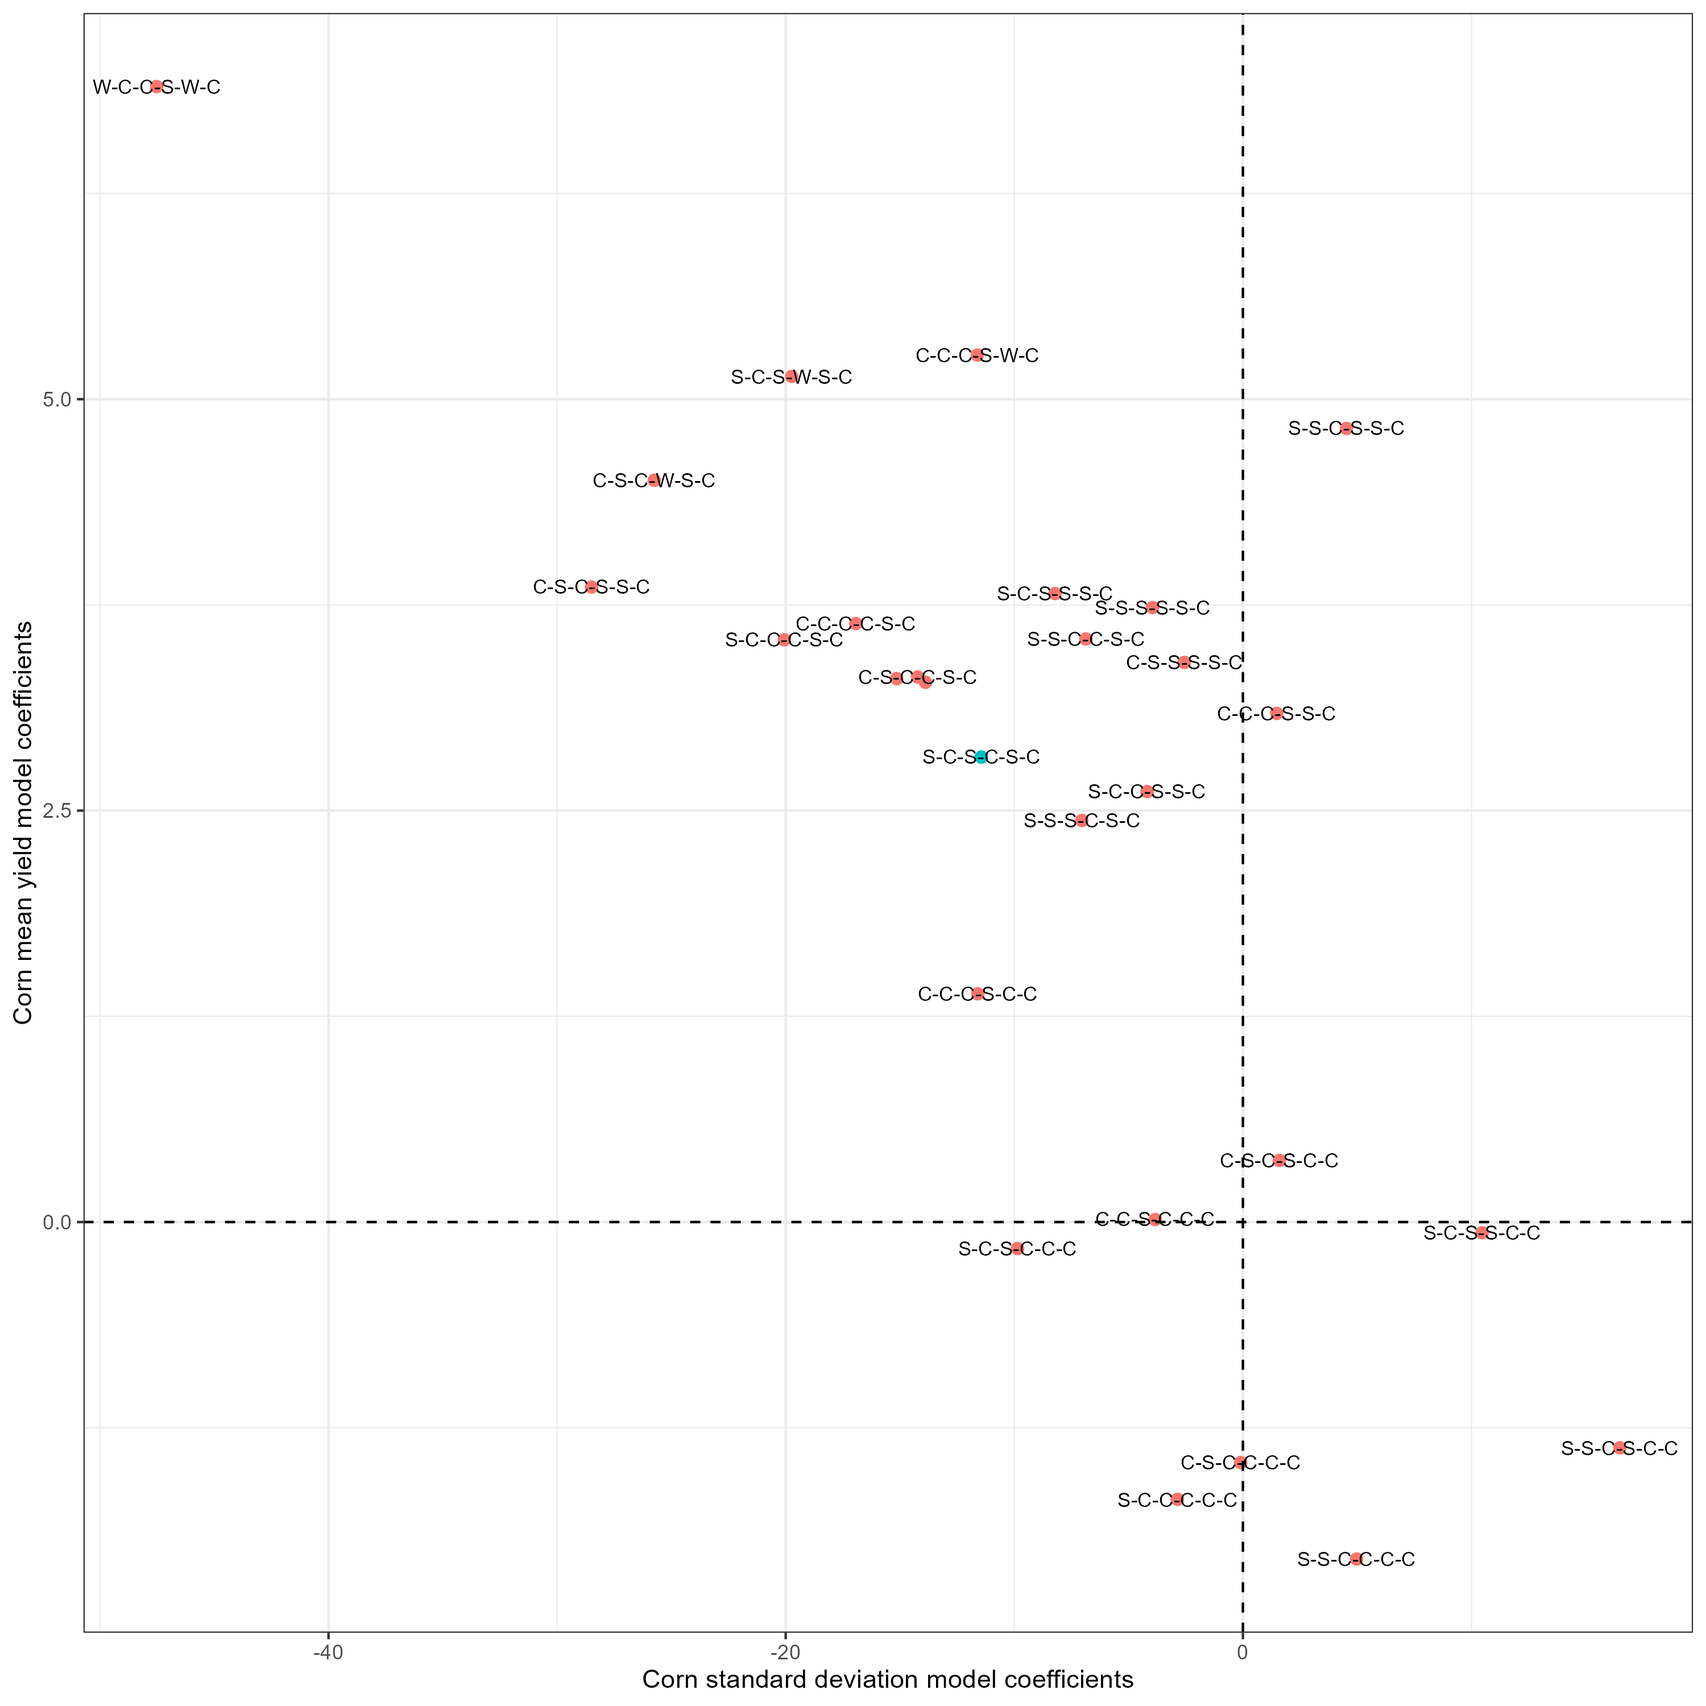
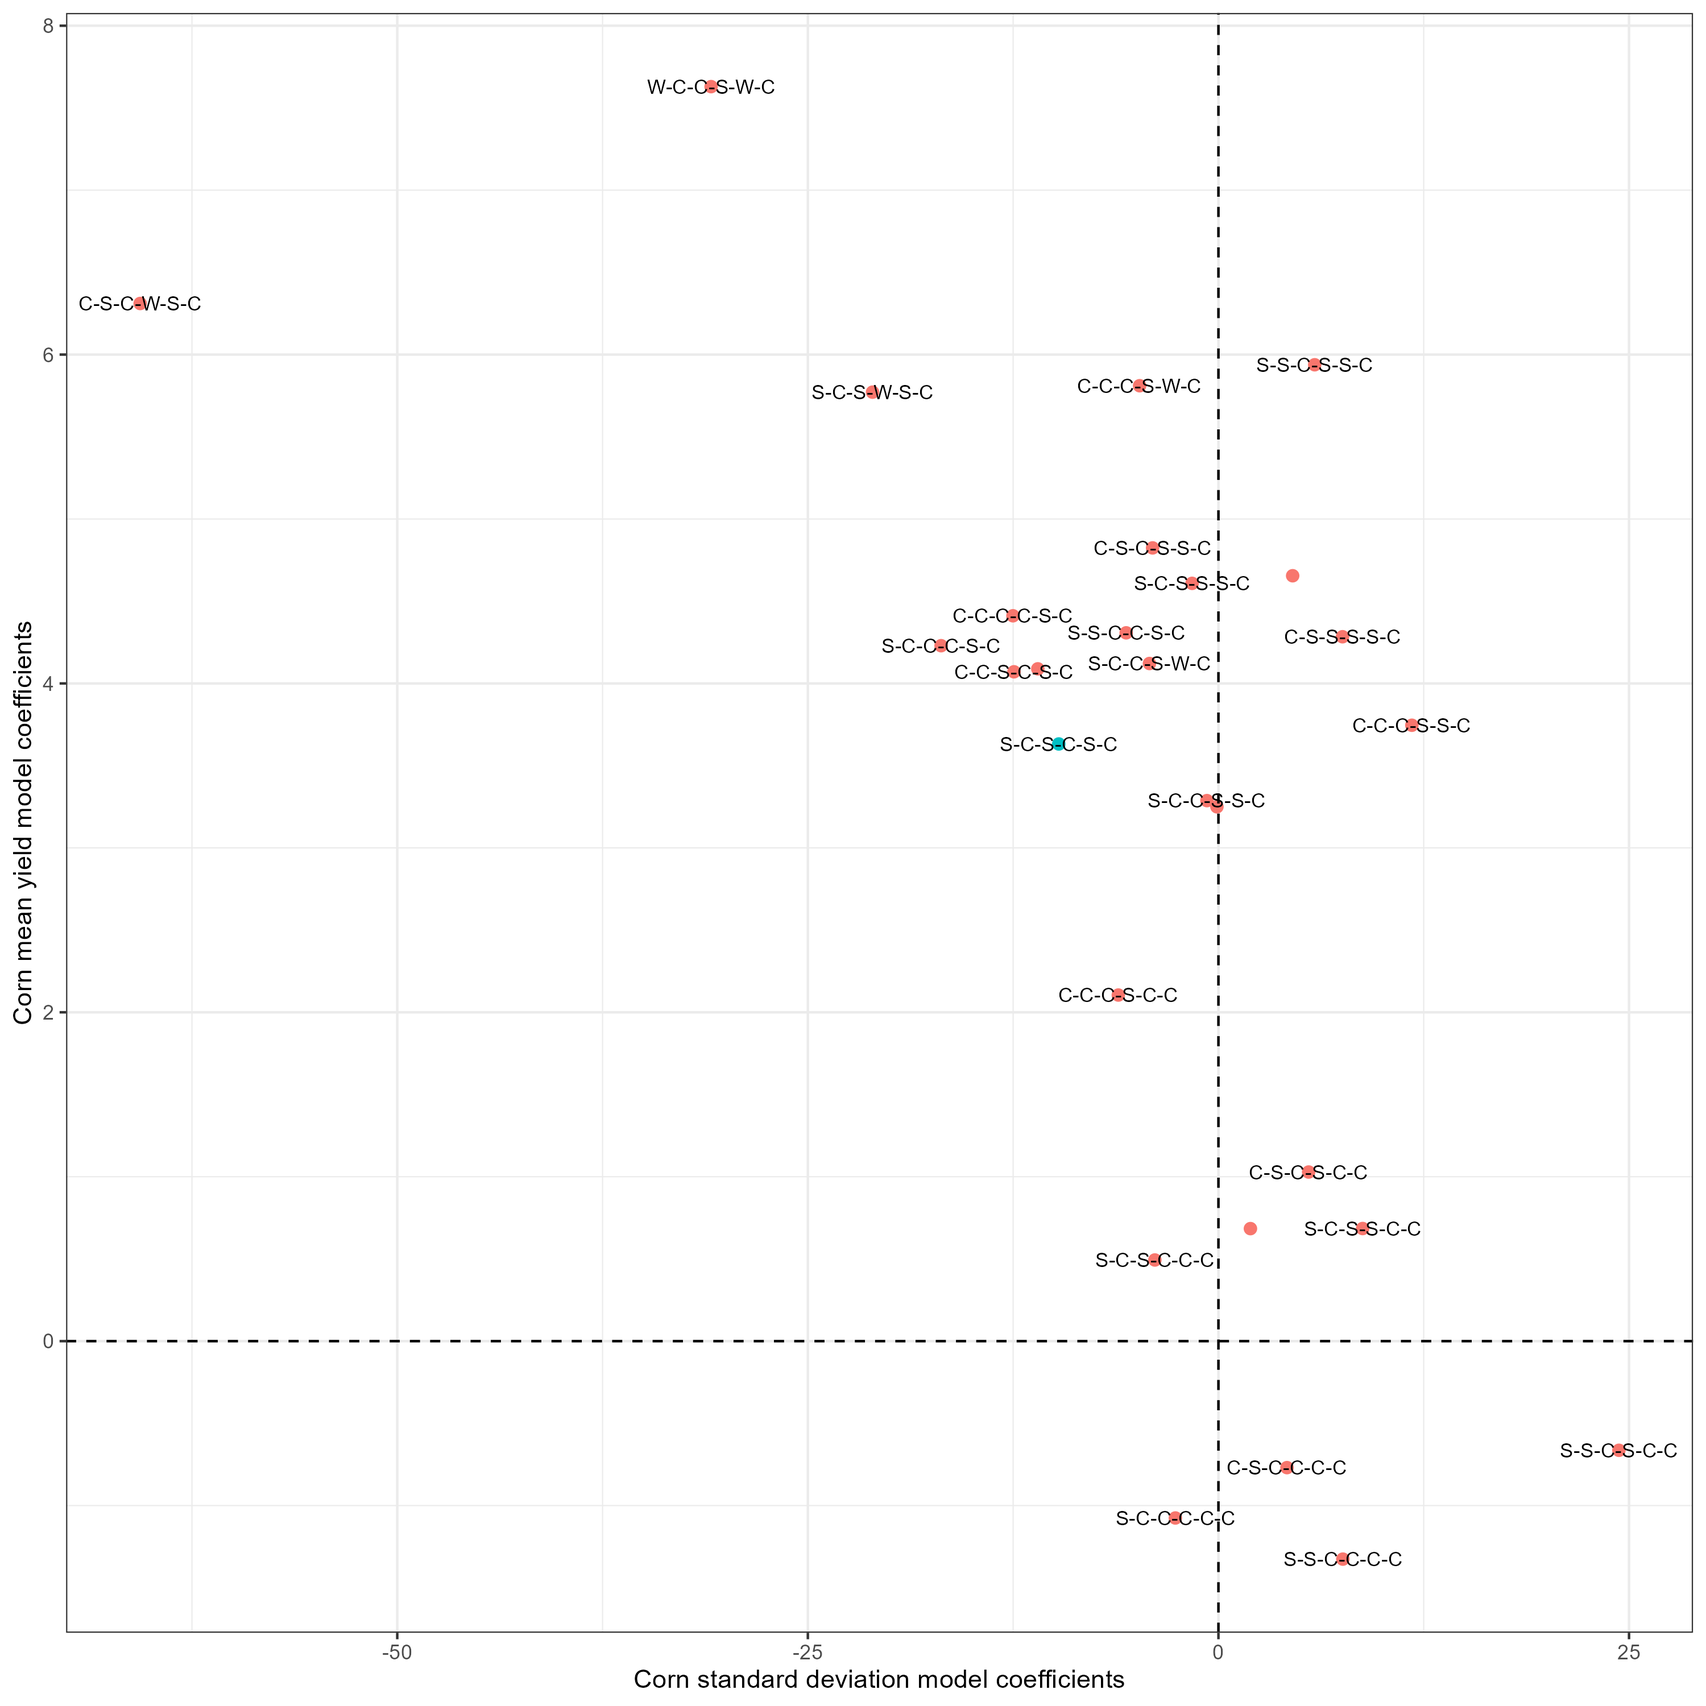
updated tables

diff --git a/tables/corn_jp_mean.tex b/tables/corn_jp_mean.tex
@@ -6,51 +6,51 @@
    \begin{tabular}{lcccc}
       \toprule
        & \multicolumn{4}{c}{corn\_yield}\\
-                                      & (1)                    & (2)                    & (3)                    & (4)\\  
+                                      & (1)                     & (2)                    & (3)                    & (4)\\  
       \midrule 
-      C-C-C-C-S-C                     & 3.636$^{***}$ (0.7219) [p=0.003] &                        &                        &   \\   
-      C-C-C-S-C-C                     & 1.386$^{***}$ (0.4177) [p=0.010] &                        &                        &   \\   
-      C-C-C-S-S-C                     & 3.092$^{***}$ (0.9316) [p=0.010] &                        &                        &   \\   
-      C-C-C-S-W-C                     & 5.269$^{***}$ (1.176) [p=0.003]  &                        &                        &   \\   
-      C-C-S-C-C-C                     & 0.0175 (0.4336) [p=0.968]        &                        &                        &   \\   
-      C-C-S-C-S-C                     & 3.304$^{***}$ (0.8452) [p=0.005] &                        &                        &   \\   
-      C-S-C-C-C-C                     & -1.459$^{**}$ (0.5836) [p=0.036] &                        &                        &   \\   
-      C-S-C-C-S-C                     & 3.311$^{***}$ (0.8099) [p=0.004] &                        &                        &   \\   
-      C-S-C-S-C-C                     & 0.3743 (0.5836) [p=0.595]        &                        &                        &   \\   
-      C-S-C-S-S-C                     & 3.860$^{**}$ (1.581) [p=0.036]   &                        &                        &   \\   
-      C-S-C-W-S-C                     & 4.506$^{**}$ (1.640) [p=0.026]   &                        &                        &   \\   
-      C-S-S-S-S-C                     & 3.403$^{***}$ (0.8827) [p=0.005] &                        &                        &   \\   
-      S-C-C-C-C-C                     & -1.687$^{**}$ (0.6997) [p=0.037] &                        &                        &   \\   
-      S-C-C-C-S-C                     & 3.539$^{***}$ (0.8088) [p=0.003] &                        &                        &   \\   
-      S-C-C-S-S-C                     & 2.616$^{**}$ (0.9952) [p=0.031]  &                        &                        &   \\   
-      S-C-C-S-W-C                     & 3.282$^{***}$ (1.053) [p=0.013]  &                        &                        &   \\   
-      S-C-S-C-C-C                     & -0.1600 (1.055) [p=0.949]        &                        &                        &   \\   
-      S-C-S-C-S-C                     & 2.827$^{***}$ (0.8296) [p=0.010] &                        &                        &   \\   
-      S-C-S-S-C-C                     & -0.0649 (0.7092) [p=0.963]       &                        &                        &   \\   
-      S-C-S-S-S-C                     & 3.821$^{***}$ (0.9932) [p=0.005] &                        &                        &   \\   
-      S-C-S-W-S-C                     & 5.138$^{***}$ (1.193) [p=0.003]  &                        &                        &   \\   
-      S-S-C-C-C-C                     & -2.048$^{**}$ (0.8074) [p=0.035] &                        &                        &   \\   
-      S-S-C-C-S-C                     & 3.545$^{***}$ (1.070) [p=0.010]  &                        &                        &   \\   
-      S-S-C-S-C-C                     & -1.373 (0.9102) [p=0.179]        &                        &                        &   \\   
-      S-S-C-S-S-C                     & 4.824$^{***}$ (1.109) [p=0.003]  &                        &                        &   \\   
-      S-S-S-C-S-C                     & 2.442$^{**}$ (0.9953) [p=0.036]  &                        &                        &   \\   
-      S-S-S-S-S-C                     & 3.733$^{***}$ (0.8960) [p=0.004] &                        &                        &   \\   
-      W-C-C-S-W-C                     & 6.899$^{***}$ (1.595) [p=0.003]  &                        &                        &   \\   
-      soy\_lag1                       &                        & 3.316$^{***}$ (0.5845) & 3.986$^{***}$ (0.6423) &   \\   
-      soy\_lag2                       &                        &                        & 1.384$^{***}$ (0.2112) &   \\   
-      rot\_index                      &                        &                        &                        & 0.4910$^{***}$ (0.1482)\\   
+      C-C-C-C-S-C                     & 4.411$^{***}$ (0.6499) [p<0.001]  &                        &                        &   \\   
+      C-C-C-S-C-C                     & 2.105$^{***}$ (0.3888) [p<0.001]  &                        &                        &   \\   
+      C-C-C-S-S-C                     & 3.746$^{***}$ (0.9712) [p=0.003]  &                        &                        &   \\   
+      C-C-C-S-W-C                     & 5.810$^{***}$ (1.107) [p<0.001]   &                        &                        &   \\   
+      C-C-S-C-C-C                     & 0.6844$^{*}$ (0.3756) [p=0.101]   &                        &                        &   \\   
+      C-C-S-C-S-C                     & 4.071$^{***}$ (0.8428) [p<0.001]  &                        &                        &   \\   
+      C-S-C-C-C-C                     & -0.7695$^{**}$ (0.3432) [p=0.051] &                        &                        &   \\   
+      C-S-C-C-S-C                     & 4.089$^{***}$ (0.8445) [p<0.001]  &                        &                        &   \\   
+      C-S-C-S-C-C                     & 1.028$^{**}$ (0.4680) [p=0.053]   &                        &                        &   \\   
+      C-S-C-S-S-C                     & 4.824$^{***}$ (1.003) [p<0.001]   &                        &                        &   \\   
+      C-S-C-W-S-C                     & 6.311$^{***}$ (1.502) [p=0.002]   &                        &                        &   \\   
+      C-S-S-S-S-C                     & 4.284$^{***}$ (1.015) [p=0.002]   &                        &                        &   \\   
+      S-C-C-C-C-C                     & -1.076$^{***}$ (0.3289) [p=0.008] &                        &                        &   \\   
+      S-C-C-C-S-C                     & 4.230$^{***}$ (0.7991) [p<0.001]  &                        &                        &   \\   
+      S-C-C-S-S-C                     & 3.287$^{***}$ (0.9953) [p=0.008]  &                        &                        &   \\   
+      S-C-C-S-W-C                     & 4.121$^{***}$ (1.072) [p=0.003]   &                        &                        &   \\   
+      S-C-S-C-C-C                     & 0.4936 (0.3959) [p=0.251]         &                        &                        &   \\   
+      S-C-S-C-S-C                     & 3.632$^{***}$ (0.8136) [p=0.001]  &                        &                        &   \\   
+      S-C-S-S-C-C                     & 0.6850 (0.6298) [p=0.306]         &                        &                        &   \\   
+      S-C-S-S-S-C                     & 4.609$^{***}$ (1.001) [p<0.001]   &                        &                        &   \\   
+      S-C-S-W-S-C                     & 5.772$^{***}$ (1.136) [p<0.001]   &                        &                        &   \\   
+      S-S-C-C-C-C                     & -1.326$^{**}$ (0.5710) [p=0.046]  &                        &                        &   \\   
+      S-S-C-C-S-C                     & 4.308$^{***}$ (1.105) [p=0.003]   &                        &                        &   \\   
+      S-S-C-S-C-C                     & -0.6638 (0.7758) [p=0.407]        &                        &                        &   \\   
+      S-S-C-S-S-C                     & 5.938$^{***}$ (1.204) [p<0.001]   &                        &                        &   \\   
+      S-S-S-C-S-C                     & 3.250$^{***}$ (0.9996) [p=0.008]  &                        &                        &   \\   
+      S-S-S-S-S-C                     & 4.655$^{***}$ (1.003) [p<0.001]   &                        &                        &   \\   
+      W-C-C-S-W-C                     & 7.630$^{***}$ (1.566) [p<0.001]   &                        &                        &   \\   
+      soy\_lag1                       &                         & 3.494$^{***}$ (0.5672) & 4.052$^{***}$ (0.6026) &   \\   
+      soy\_lag2                       &                         &                        & 1.369$^{***}$ (0.2386) &   \\   
+      rot\_index                      &                         &                        &                        & 0.6388$^{***}$ (0.1510)\\   
        \\
-      Observations                    & 1,507,098              & 1,507,098              & 1,507,098              & 1,507,098\\  
-      R$^2$                           & 0.83980                & 0.83955                & 0.83966                & 0.83871\\  
-      Within R$^2$                    & 0.14882                & 0.14747                & 0.14805                & 0.14300\\  
+      Observations                    & 1,796,806               & 1,796,806              & 1,796,806              & 1,796,806\\  
+      R$^2$                           & 0.84354                 & 0.84332                & 0.84343                & 0.84256\\  
+      Within R$^2$                    & 0.15452                 & 0.15332                & 0.15391                & 0.14918\\  
        \\
-      tile\_field\_ID fixed effects   & $\checkmark$           & $\checkmark$           & $\checkmark$           & $\checkmark$\\   
-      year fixed effects              & $\checkmark$           & $\checkmark$           & $\checkmark$           & $\checkmark$\\   
+      tile\_field\_ID fixed effects   & $\checkmark$            & $\checkmark$           & $\checkmark$           & $\checkmark$\\   
+      year fixed effects              & $\checkmark$            & $\checkmark$           & $\checkmark$           & $\checkmark$\\   
       \bottomrule
    \end{tabular}
    
    \par \raggedright 
-   Benjamini-Hochberg FDR correction across 28 rotation-sequence coefficients: 24 significant at 5\% (unadjusted); 24 significant at 5\% FDR.
+   Benjamini-Hochberg FDR correction across 28 rotation-sequence coefficients: 25 significant at 5\% (unadjusted); 25 significant at 5\% FDR.
 \end{table}
 
 

diff --git a/tables/corn_jp_var.tex b/tables/corn_jp_var.tex
@@ -8,38 +8,38 @@
                                       & resid\_sq\\   
                                       & (1)\\  
       \midrule 
-      C-C-C-C-S-C                     & -16.93$^{***}$ (5.001)\\   
-      C-C-C-S-C-C                     & -11.60 (8.125)\\   
-      C-C-C-S-S-C                     & 1.481 (9.804)\\   
-      C-C-C-S-W-C                     & -11.61 (19.32)\\   
-      C-C-S-C-C-C                     & -3.841 (5.982)\\   
-      C-C-S-C-S-C                     & -15.14$^{**}$ (5.647)\\   
-      C-S-C-C-C-C                     & -0.1022 (5.507)\\   
-      C-S-C-C-S-C                     & -14.22$^{**}$ (4.968)\\   
-      C-S-C-S-C-C                     & 1.594 (6.657)\\   
-      C-S-C-S-S-C                     & -28.49$^{**}$ (11.95)\\   
-      C-S-C-W-S-C                     & -25.75$^{*}$ (13.25)\\   
-      C-S-S-S-S-C                     & -2.565 (9.936)\\   
-      S-C-C-C-C-C                     & -2.864 (6.731)\\   
-      S-C-C-C-S-C                     & -20.06$^{***}$ (5.152)\\   
-      S-C-C-S-S-C                     & -4.191 (8.256)\\   
-      S-C-C-S-W-C                     & -13.89 (15.24)\\   
-      S-C-S-C-C-C                     & -9.858 (10.25)\\   
-      S-C-S-C-S-C                     & -11.44$^{*}$ (6.223)\\   
-      S-C-S-S-C-C                     & 10.46 (10.74)\\   
-      S-C-S-S-S-C                     & -8.217 (6.642)\\   
-      S-C-S-W-S-C                     & -19.73 (12.79)\\   
-      S-S-C-C-C-C                     & 4.970 (11.02)\\   
-      S-S-C-C-S-C                     & -6.864 (6.116)\\   
-      S-S-C-S-C-C                     & 16.49 (10.88)\\   
-      S-S-C-S-S-C                     & 4.535 (10.18)\\   
-      S-S-S-C-S-C                     & -7.042 (8.410)\\   
-      S-S-S-S-S-C                     & -3.952 (9.679)\\   
-      W-C-C-S-W-C                     & -47.51 (28.63)\\   
+      C-C-C-C-S-C                     & -12.52$^{***}$ (1.597)\\   
+      C-C-C-S-C-C                     & -6.106$^{***}$ (1.768)\\   
+      C-C-C-S-S-C                     & 11.77$^{**}$ (5.780)\\   
+      C-C-C-S-W-C                     & -4.809 (11.40)\\   
+      C-C-S-C-C-C                     & 1.937 (1.843)\\   
+      C-C-S-C-S-C                     & -12.45$^{***}$ (1.551)\\   
+      C-S-C-C-C-C                     & 4.162$^{**}$ (1.722)\\   
+      C-S-C-C-S-C                     & -11.01$^{***}$ (1.676)\\   
+      C-S-C-S-C-C                     & 5.486$^{***}$ (1.686)\\   
+      C-S-C-S-S-C                     & -4.006$^{*}$ (2.274)\\   
+      C-S-C-W-S-C                     & -65.66$^{**}$ (27.87)\\   
+      C-S-S-S-S-C                     & 7.553 (5.400)\\   
+      S-C-C-C-C-C                     & -2.612 (1.814)\\   
+      S-C-C-C-S-C                     & -16.90$^{***}$ (1.965)\\   
+      S-C-C-S-S-C                     & -0.7096 (5.639)\\   
+      S-C-C-S-W-C                     & -4.207 (11.80)\\   
+      S-C-S-C-C-C                     & -3.879$^{**}$ (1.947)\\   
+      S-C-S-C-S-C                     & -9.728$^{***}$ (1.448)\\   
+      S-C-S-S-C-C                     & 8.788$^{*}$ (4.913)\\   
+      S-C-S-S-S-C                     & -1.601 (3.223)\\   
+      S-C-S-W-S-C                     & -21.06$^{**}$ (9.872)\\   
+      S-S-C-C-C-C                     & 7.581 (6.013)\\   
+      S-S-C-C-S-C                     & -5.610 (4.618)\\   
+      S-S-C-S-C-C                     & 24.39$^{***}$ (5.151)\\   
+      S-S-C-S-S-C                     & 5.867 (3.969)\\   
+      S-S-S-C-S-C                     & -0.0918 (2.774)\\   
+      S-S-S-S-S-C                     & 4.522 (5.020)\\   
+      W-C-C-S-W-C                     & -30.89 (26.41)\\   
        \\
-      Observations                    & 1,507,098\\  
-      R$^2$                           & 0.31935\\  
-      Within R$^2$                    & 0.01301\\  
+      Observations                    & 1,796,806\\  
+      R$^2$                           & 0.29104\\  
+      Within R$^2$                    & 0.01396\\  
        \\
       tile\_field\_ID fixed effects   & $\checkmark$\\   
       year fixed effects              & $\checkmark$\\   

diff --git a/tables/corn_jp_skew.tex b/tables/corn_jp_skew.tex
@@ -1,0 +1,50 @@
+
+\begin{table}[H]
+   \caption{\label{tab:corn_jp_skew} Stage 3 — Corn yield conditional skewness (standardized third moment)}
+   \bigskip
+   \centering
+   \begin{tabular}{lc}
+      \toprule
+                                      & resid\_cube\_std\\    
+                                      & (1)\\  
+      \midrule 
+      C-C-C-C-S-C                     & -0.0696 (0.0445)\\   
+      C-C-C-S-C-C                     & -0.1021$^{**}$ (0.0493)\\   
+      C-C-C-S-S-C                     & -0.3724$^{**}$ (0.1611)\\   
+      C-C-C-S-W-C                     & -0.0741 (0.3176)\\   
+      C-C-S-C-C-C                     & 0.0385 (0.0513)\\   
+      C-C-S-C-S-C                     & -0.0185 (0.0432)\\   
+      C-S-C-C-C-C                     & 0.0611 (0.0480)\\   
+      C-S-C-C-S-C                     & 0.0336 (0.0467)\\   
+      C-S-C-S-C-C                     & -0.3115$^{***}$ (0.0470)\\   
+      C-S-C-S-S-C                     & -0.1858$^{***}$ (0.0634)\\   
+      C-S-C-W-S-C                     & 0.3026 (0.7766)\\   
+      C-S-S-S-S-C                     & -0.0536 (0.1505)\\   
+      S-C-C-C-C-C                     & -0.0207 (0.0505)\\   
+      S-C-C-C-S-C                     & 0.0556 (0.0547)\\   
+      S-C-C-S-S-C                     & -0.2582 (0.1571)\\   
+      S-C-C-S-W-C                     & -0.1239 (0.3288)\\   
+      S-C-S-C-C-C                     & -0.0006 (0.0542)\\   
+      S-C-S-C-S-C                     & -0.0221 (0.0403)\\   
+      S-C-S-S-C-C                     & -0.2334$^{*}$ (0.1369)\\   
+      S-C-S-S-S-C                     & -0.1789$^{**}$ (0.0898)\\   
+      S-C-S-W-S-C                     & 0.0158 (0.2751)\\   
+      S-S-C-C-C-C                     & -0.3302$^{**}$ (0.1675)\\   
+      S-S-C-C-S-C                     & 0.0263 (0.1287)\\   
+      S-S-C-S-C-C                     & -0.2347 (0.1435)\\   
+      S-S-C-S-S-C                     & -0.2013$^{*}$ (0.1106)\\   
+      S-S-S-C-S-C                     & -0.1830$^{**}$ (0.0773)\\   
+      S-S-S-S-S-C                     & -0.0640 (0.1399)\\   
+      W-C-C-S-W-C                     & -0.3781 (0.7358)\\   
+       \\
+      Observations                    & 1,796,806\\  
+      R$^2$                           & 0.08660\\  
+      Within R$^2$                    & 0.00194\\  
+       \\
+      tile\_field\_ID fixed effects   & $\checkmark$\\   
+      year fixed effects              & $\checkmark$\\   
+      \bottomrule
+   \end{tabular}
+\end{table}
+
+
